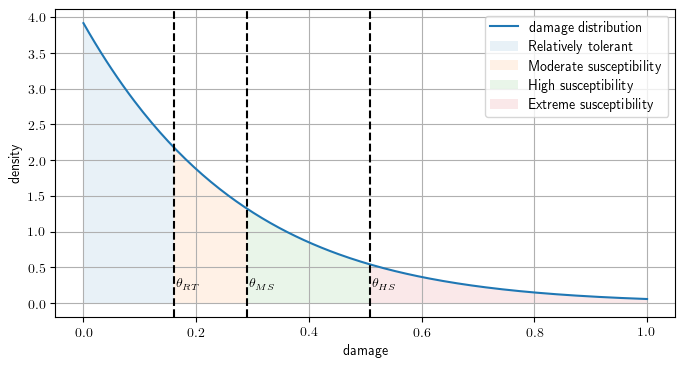
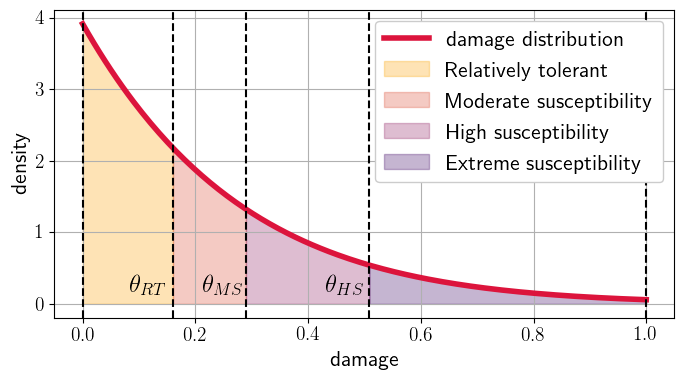
updated figure for paper

diff --git a/Python/bayes_ABC_plotting.py b/Python/bayes_ABC_plotting.py
@@ -79,41 +79,53 @@ def plot_damage_normal_param_densities(mean_post,sd_post, folder_path):
 def plot_parameter_set(index, theta_RT_post, theta_MS_post, theta_HS_post, mean_post,sd_post,folder_path ):
     xs = np.linspace(0, 1, 200)
     fig, ax = plt.subplots(1,1, figsize=(8,4))
-    ax.plot(xs, truncated_norm_pdf(xs,mean_post[index], sd_post[index]),label="damage distribution")
+    ax.plot(xs, truncated_norm_pdf(xs,mean_post[index], sd_post[index]),label="damage distribution",color="crimson",linewidth =4 )
+
+    plt.axvline(x=0,ls='--',color="black")
+    plt.axvline(x=1,ls='--',color="black")
 
     plt.axvline(x=theta_RT_post[index],ls='--',color="black")
     ax.annotate("$\\theta_{RT}$",
-            xy=(theta_RT_post[index], 0.2), xycoords='data',
-            xytext=(1.5, 1.5), textcoords='offset points')
+            xy=(theta_RT_post[index]-0.08, 0.15), xycoords='data',
+            xytext=(1.5, 1.5), textcoords='offset points',
+            fontsize=18)
 
     plt.axvline(x=theta_MS_post[index],ls='--',color="black")
     ax.annotate("$\\theta_{MS}$",
-            xy=(theta_MS_post[index], 0.2), xycoords='data',
-            xytext=(1.5, 1.5), textcoords='offset points')
+            xy=(theta_MS_post[index]-0.08, 0.15), xycoords='data',
+            xytext=(1.5, 1.5), textcoords='offset points',
+            fontsize=18)
     
     plt.axvline(x=theta_HS_post[index],ls='--',color="black") 
     ax.annotate("$\\theta_{HS}$",
-            xy=(theta_HS_post[index], 0.2), xycoords='data',
-            xytext=(1.5, 1.5), textcoords='offset points')
+            xy=(theta_HS_post[index]-0.08, 0.15), xycoords='data',
+            xytext=(1.5, 1.5), textcoords='offset points',
+            fontsize=18)
+
+    cmap = matplotlib.colormaps['inferno']
+    reversed_cmap = cmap.reversed()
 
     xs = np.linspace(0, theta_RT_post[index], 200)
-    ax.fill_between(xs,truncated_norm_pdf(xs, mean_post[index], sd_post[index]),label="Relatively tolerant", alpha=0.1)
+    ax.fill_between(xs,truncated_norm_pdf(xs, mean_post[index], sd_post[index]),label="Relatively tolerant", alpha=0.3,color=reversed_cmap(1/5))
 
     xs = np.linspace(theta_RT_post[index],theta_MS_post[index], 200)
-    ax.fill_between(xs,truncated_norm_pdf(xs, mean_post[index], sd_post[index]),label="Moderate susceptibility", alpha=0.1)
+    ax.fill_between(xs,truncated_norm_pdf(xs, mean_post[index], sd_post[index]),label="Moderate susceptibility", alpha=0.3,color=reversed_cmap(2/5))
 
     xs = np.linspace(theta_MS_post[index],theta_HS_post[index], 200)
-    ax.fill_between(xs,truncated_norm_pdf(xs, mean_post[index], sd_post[index]),label="High susceptibility", alpha=0.1)
+    ax.fill_between(xs,truncated_norm_pdf(xs, mean_post[index], sd_post[index]),label="High susceptibility", alpha=0.3,color=reversed_cmap(3/5))
 
     xs = np.linspace(theta_HS_post[index],1, 200)
-    ax.fill_between(xs,truncated_norm_pdf(xs, mean_post[index], sd_post[index]),label="Extreme susceptibility", alpha=0.1)
+    ax.fill_between(xs,truncated_norm_pdf(xs, mean_post[index], sd_post[index]),label="Extreme susceptibility", alpha=0.3,color=reversed_cmap(4/5))
 
-    ax.legend()
+    ax.legend(fontsize=16,framealpha=1)
 
     ax.grid()
 
-    ax.set_xlabel("damage")
-    ax.set_ylabel("density")
+    ax.tick_params(axis='both', which='major', labelsize=14)
+    # ax.tick_params(axis='both', which='minor', labelsize=8)
+
+    ax.set_xlabel("damage",fontsize=16)
+    ax.set_ylabel("density",fontsize=16)
 
     plt.savefig( os.path.join(folder_path, "figures", f"bayes_sample_dis-{index}.png"), bbox_inches='tight')
 
@@ -172,12 +184,14 @@ def plotting(num_samples,threshold_known,threshold_freq,max_it_number = 10, fold
 
     theta_RT_post, theta_MS_post, theta_HS_post, mean_post,sd_post = combine_data(num_samples,threshold_known, threshold_freq,max_it_number)
 
-    plot_threshold_densities(theta_RT_post, theta_MS_post, theta_HS_post, folder_path)
+    # plot_threshold_densities(theta_RT_post, theta_MS_post, theta_HS_post, folder_path)
 
-    plot_damage_normal_param_densities(mean_post,sd_post, folder_path)
+    # plot_damage_normal_param_densities(mean_post,sd_post, folder_path)
 
-    for index in  [0,10,20,30,40,50]:  #  range(0,10): #  TODO: a proper random choice
+    for index in [2,10]: #  [0,10,20,30,40,50]:  # range(0,10)  # 
         plot_parameter_set(index, theta_RT_post, theta_MS_post, theta_HS_post, mean_post,sd_post,folder_path )
+
+    return
 
     plot_posterior_across_included_samples(theta_RT_post,"RT threshold","Posterior of $\\theta_{RT}$ threshold",[0,1], folder_path, "thresholdRT")
 
